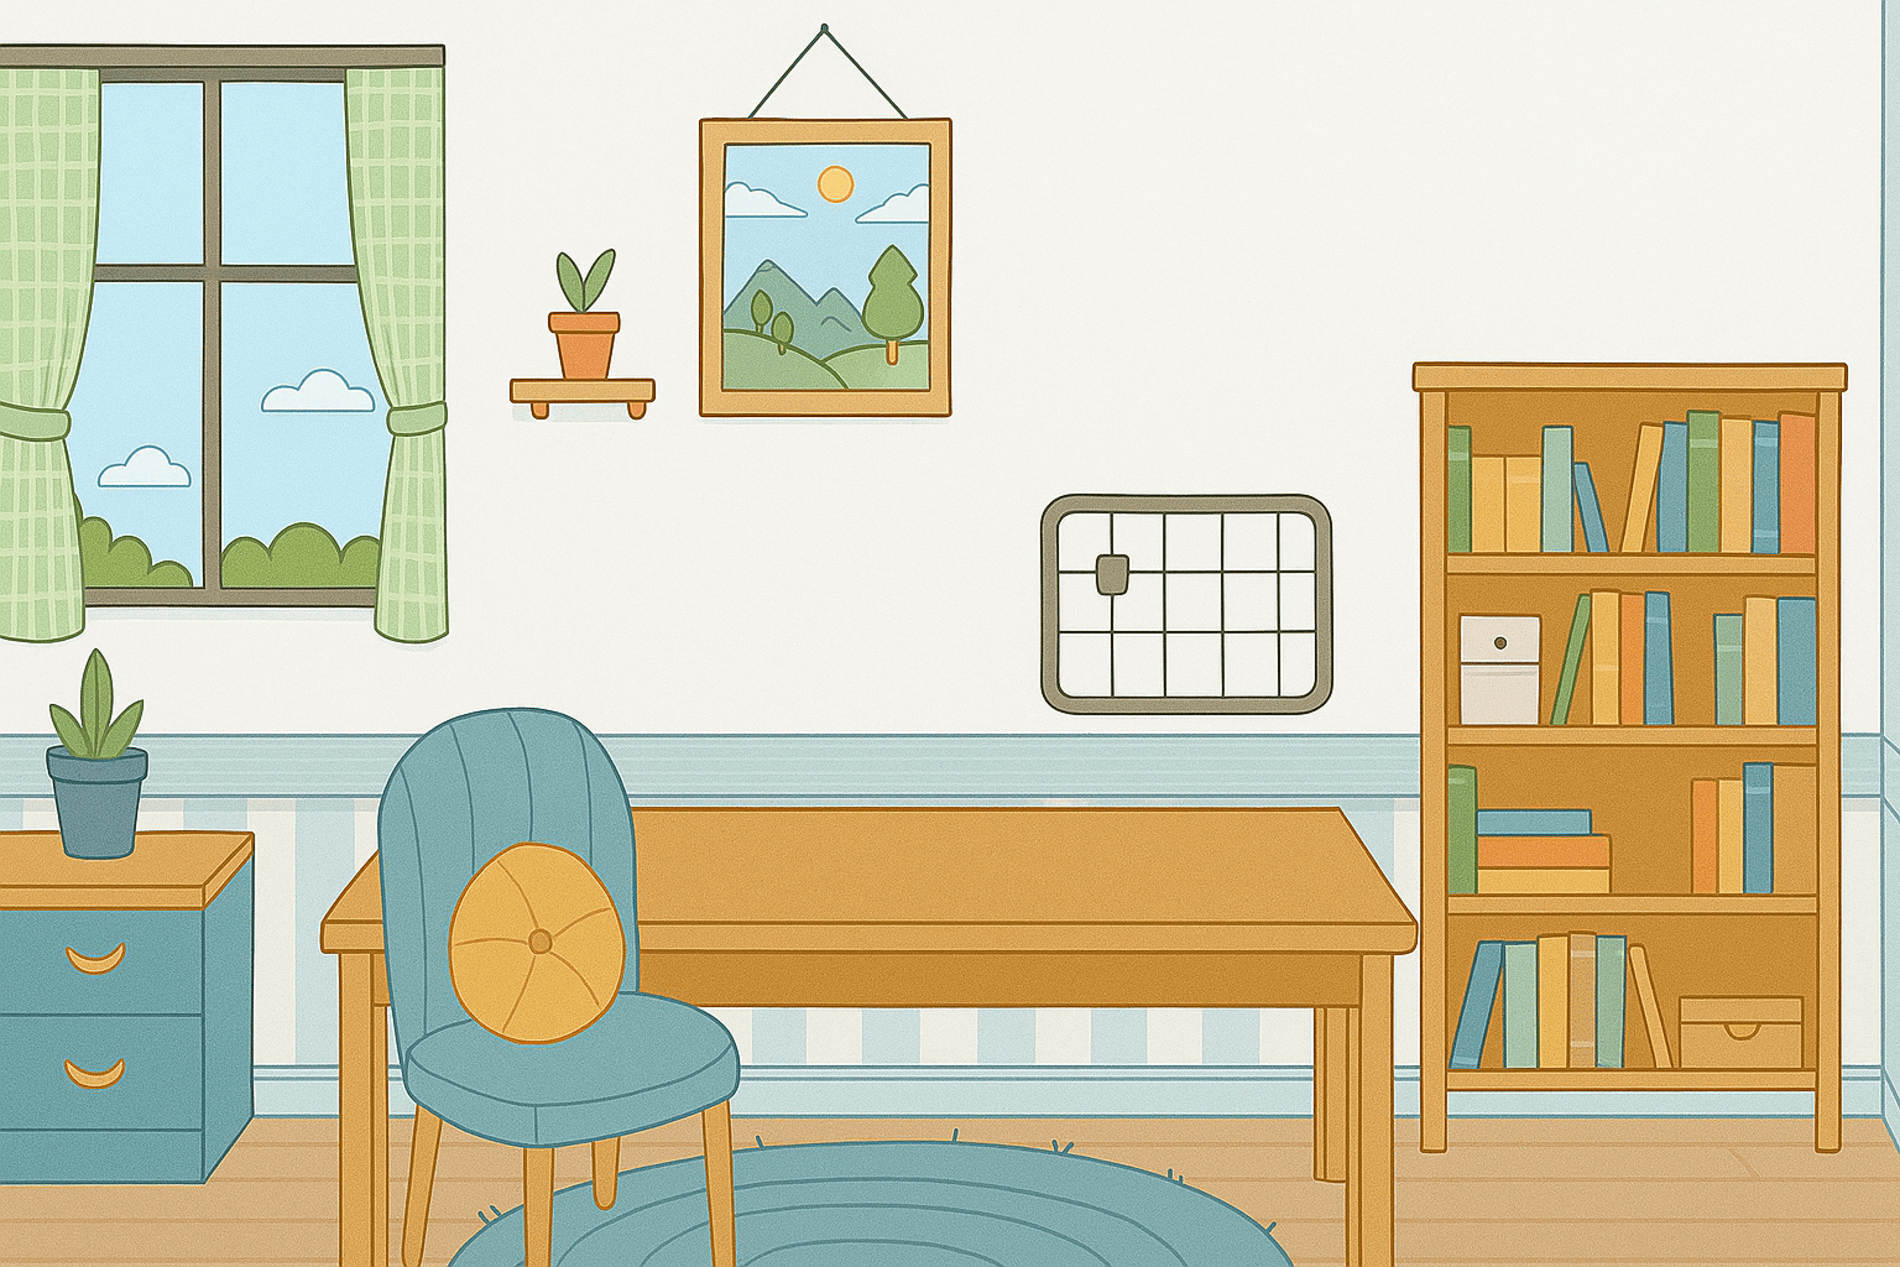
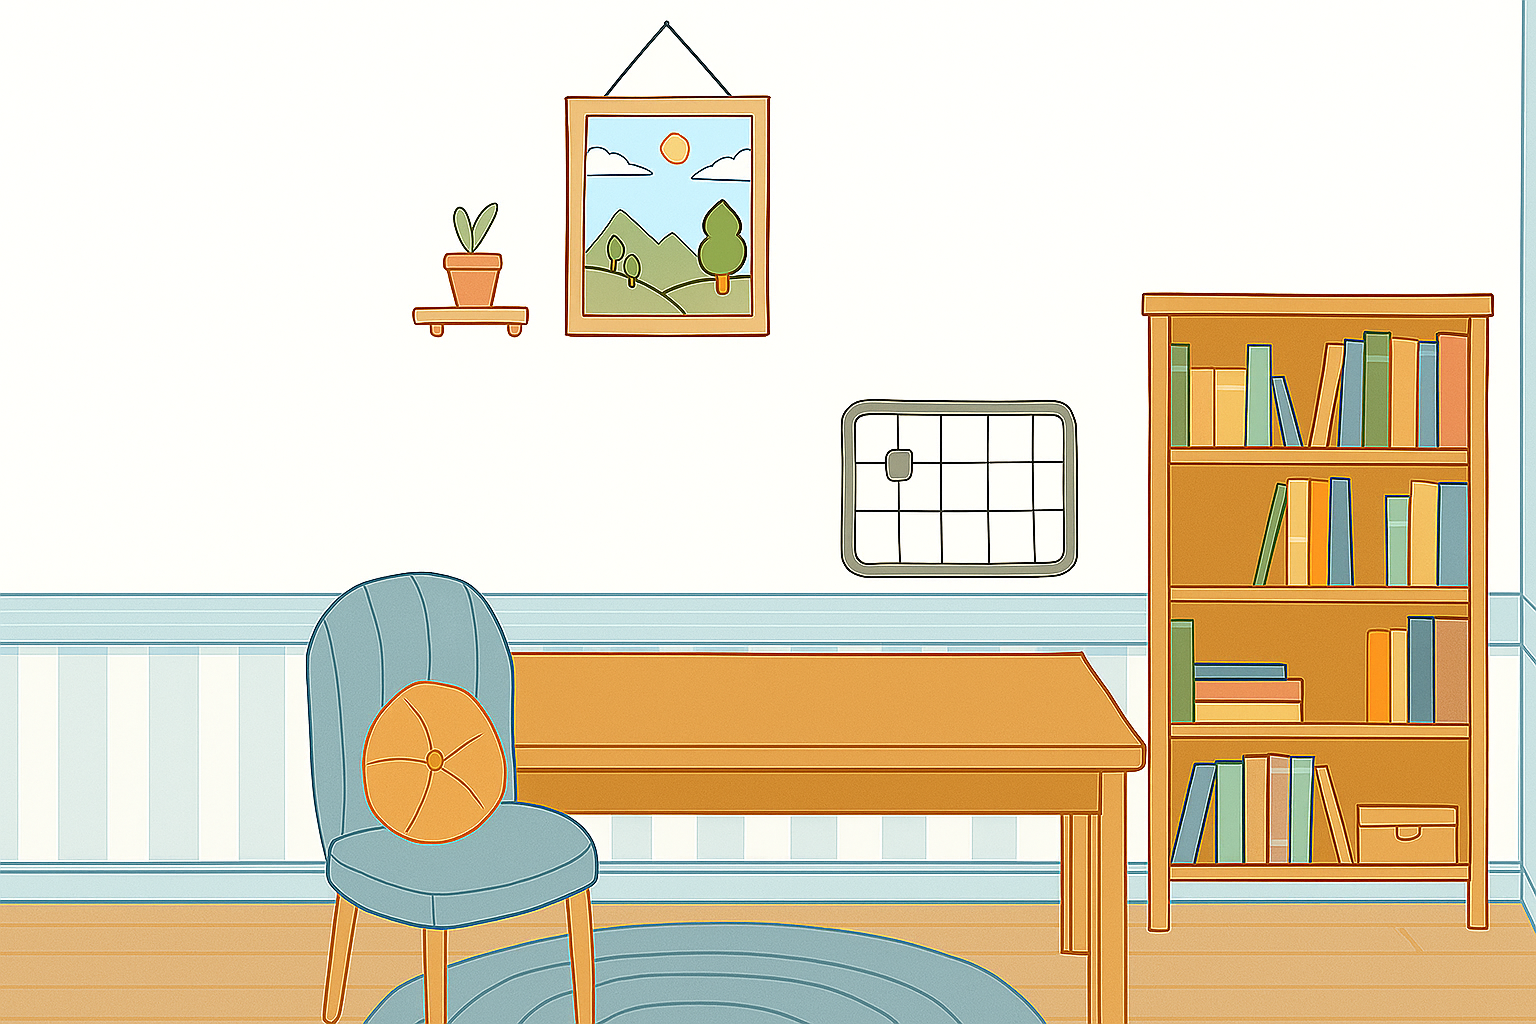
Move window.gif further left on hover

Changed region(s): [[0.0, 0.0312, 1.0, 1.0], [0.9688, 0.0, 1.0, 0.0938], [0.625, 0.9375, 0.6562, 0.9688]]

diff --git a/landingpage.html b/landingpage.html
@@ -230,12 +230,21 @@
         
         .overlay-window {
             position: absolute;
-            left: -16%; /* Moved further left from -8% */
-            top: -23%; /* Moved further up from -5% */
+            left: -20%; /* Moved a little to the right from -25% */
+            top: -23%; /* Maintaining the vertical position */
             z-index: 2;
-            width: 850px; /* Increased from 700px */
+            width: 850px; /* Maintaining the width */
             height: auto;
-            transition: opacity 0.4s ease;
+            transform-origin: center center;
+        }
+        
+        /* Sleeping cat styles */
+        .sleeping-cat {
+            filter: drop-shadow(0 4px 8px rgba(0,0,0,0.2));
+            transition: transform 0.5s ease;
+        }
+        .sleeping-cat:hover {
+            transform: scale(1.05);
         }
         
         /* Interactive elements */
@@ -412,8 +421,12 @@
     
     <div class="bg-container">
     <img src="assets/main.png" alt="Main Background" class="main-bg">
-        <!-- Window on left side -->
+        <!-- Window repositioned to the left -->
     <img src="assets/window.png" alt="Window" id="room-window" class="overlay-window">
+        <!-- Cat sleeping GIF on left side -->
+    <div class="cat-wrapper" style="position:absolute; left:9%; top:82%; transform:translate(-50%,-50%); z-index:12;">
+        <img src="assets/Cat-Sleeping-Loop-Video-Creati-unscreen.gif" alt="Sleeping Cat" class="sleeping-cat" style="width:650px; height:auto; object-fit:contain;">
+    </div>
         <!-- PC element removed -->
 
             <!-- Lamp (click to switch background color) -->
@@ -430,11 +443,11 @@
         </div>
         
         <!-- PC image to the right of author image - clickable, links to blog.html -->
-        <div class="pc-wrapper" style="position:absolute; left:46%; top:58%; transform:translate(-50%,-50%); z-index:14;">
-            <a href="blog.html" id="pc-link" class="clickable-no-hover" style="display:inline-block; width:280px; height:220px; cursor:none; position:relative;">
-                <img id="pc-image" src="assets/pc.png" alt="PC" class="pc-static-image" style="width:280px; height:220px; object-fit:contain; opacity:1;">
+        <div class="pc-wrapper" style="position:absolute; left:50%; top:66%; transform:translate(-50%,-50%); z-index:14;">
+            <a href="blog.html" id="pc-link" class="clickable-no-hover" style="display:inline-block; width:350px; height:275px; cursor:none; position:relative;">
+                <img id="pc-image" src="assets/pc.png" alt="PC" class="pc-static-image" style="width:250px; height:195px; object-fit:contain; opacity:1;">
             </a>
-            <img src="assets/articlesbub.png" alt="Articles" class="pc-bubble" style="position:absolute; left:130px; top:-80px; width:180px; height:auto; opacity:0; pointer-events:none; transform: translateY(6px) scale(.95); transition: opacity .25s ease, transform .25s ease; z-index:25;">
+            <img src="assets/articlesbub.png" alt="Articles" class="pc-bubble" style="position:absolute; left:160px; top:-80px; width:180px; height:auto; opacity:0; pointer-events:none; transform: translateY(6px) scale(.95); transition: opacity .25s ease, transform .25s ease; z-index:25;">
         </div>
 
        
@@ -460,7 +473,7 @@
     <script>
         // Preload cursor images & report if missing
         (function(){
-            const imgs = ['assets/cursor.png','assets/onclick.png','assets/nightwindow.png','assets/authors.png','assets/meetteam.png','assets/articlesbub.png','assets/logo.gif'];
+            const imgs = ['assets/cursor.png','assets/onclick.png','assets/window.png','assets/window.gif','assets/authors.png','assets/meetteam.png','assets/articlesbub.png','assets/logo.gif','assets/Cat-Sleeping-Loop-Video-Creati-unscreen.gif'];
             imgs.forEach(src=>{const i=new Image(); i.onload=()=>console.log('Loaded asset',src); i.onerror=()=>console.warn('Failed to load asset',src); i.src=src;});
         })();
         // Add this script to verify the elements are there and set up event listeners
@@ -477,30 +490,47 @@
             // Lamp click -> change background color to dark purple (toggle)
             const lamp = document.getElementById('lamp');
             if (lamp) {
-                const winImg = document.getElementById('room-window');
                 lamp.addEventListener('click', function(e){
                     e.preventDefault();
                     const dark = document.body.classList.toggle('dark-purple-bg');
-                    if (winImg) {
-                        // Fade swap
-                        winImg.style.opacity = 0;
-                        setTimeout(()=>{
-                            winImg.src = dark ? 'assets/nightwindow.png' : 'assets/window.png';
-                            winImg.onload = () => { winImg.style.opacity = 1; };
-                        }, 180);
-                    }
                 });
             }
 
-            // Window code (hover effect removed)
+            // Window animation on hover - direct swap like author/team
             (function(){
                 const winImg = document.getElementById('room-window');
                 if(!winImg) return;
-                // Just keeping the references for dark mode toggle
-                let baseSrc = 'assets/window.png';
-                let darkSrc = 'assets/nightwindow.png';
-                // No hover event listeners needed anymore
-                // When dark mode toggles we already handle src in lamp click
+                
+                // Original size and position values
+                const original = {
+                    width: '850px',
+                    height: 'auto',
+                    left: '-20%'
+                };
+                
+                // Larger size and shifted position for GIF
+                const changed = {
+                    width: '1100px', // Increased from 1000px
+                    height: 'auto',
+                    left: '-30%' // Moved even further to the left (from -25%)
+                };
+                
+                // Preload the GIF for performance
+                const windowGif = new Image();
+                windowGif.src = 'assets/window.gif';
+                
+                // Direct image swap on hover with size and position changes (no transition)
+                winImg.addEventListener('mouseenter', function() {
+                    winImg.src = 'assets/window.gif';
+                    winImg.style.width = changed.width;
+                    winImg.style.left = changed.left; // Move left
+                });
+                
+                winImg.addEventListener('mouseleave', function() {
+                    winImg.src = 'assets/window.png';
+                    winImg.style.width = original.width;
+                    winImg.style.left = original.left; // Reset position
+                });
             })();
             
             const bookLink = document.getElementById('book-link');
@@ -755,16 +785,17 @@
             const pcBubble = document.querySelector('.pc-bubble');
             
             if (pcImage) {
-                // Static image dimensions - fixed size
-                const staticWidth = '280px';
-                const staticHeight = '220px';
+                // Static image dimensions - even smaller size
+                const staticWidth = '250px';
+                const staticHeight = '195px';
                 
                 // Paths to images
                 const staticSrc = 'assets/pc.png';
                 const animatedSrc = 'assets/pc.gif';
                 
-                // GIF size - same as static now for consistency
-                const gifWidth = '280px';
+                // GIF size - larger than static
+                const gifWidth = '350px';
+                const gifHeight = '275px';
                 
                 // Preload the GIF for smoother transition
                 const preloadGif = new Image();
@@ -772,14 +803,14 @@
                 
                 // When mouse enters the PC image
                 pcLink.addEventListener('mouseenter', function() {
-                    // Change to GIF with exact same dimensions as static
+                    // Change to GIF with larger dimensions
                     pcImage.src = animatedSrc;
-                    pcImage.style.width = staticWidth;
-                    pcImage.style.height = staticHeight;
+                    pcImage.style.width = gifWidth;
+                    pcImage.style.height = gifHeight;
                     pcImage.style.objectFit = 'contain';
                     
-                    // Remove any transform that might affect size perception
-                    pcImage.style.transform = '';
+                    // Make a very subtle adjustment upward with same left position
+                    pcImage.style.transform = 'translateY(-40px) translateX(-45px)';
                     
                     // Show the articles bubble
                     if (pcBubble) {
@@ -790,14 +821,14 @@
                 
                 // When mouse leaves
                 pcLink.addEventListener('mouseleave', function() {
-                    // Change back to static PNG with exact same dimensions
+                    // Change back to static PNG with smaller dimensions
                     pcImage.src = staticSrc;
                     pcImage.style.width = staticWidth;
                     pcImage.style.height = staticHeight;
                     pcImage.style.objectFit = 'contain';
                     
-                    // Reset position adjustment
-                    pcImage.style.transform = '';
+                    // Reset position adjustment - ensuring no vertical shift
+                    pcImage.style.transform = 'translateY(0)';
                     
                     // Hide the articles bubble
                     if (pcBubble) {

diff --git a/bg.py b/bg.py
@@ -1,0 +1,25 @@
+import cv2
+import os
+from rembg import remove
+from PIL import Image
+import moviepy.video.io.ImageSequenceClip as ImageSequenceClip
+
+def remove_bg_video(video_path):
+    cap = cv2.VideoCapture(video_path)
+    frames = []
+    while True:
+        ret, frame = cap.read()
+        if not ret:
+            break
+        img = Image.fromarray(cv2.cvtColor(frame, cv2.COLOR_BGR2RGB))
+        img_no_bg = remove(img)
+        frames.append(img_no_bg)
+    cap.release()
+
+    # Save output video
+    clip = ImageSequenceClip.ImageSequenceClip([f for f in frames], fps=30)
+    output_path = os.path.splitext(video_path)[0] + "_nobg.mp4"
+    clip.write_videofile(output_path, codec='libx264')
+    print(f"Saved: {output_path}")
+
+remove_bg_video("C:\\Users\\admin\\OneDrive\\Desktop\\Girlsin.tech-2\\assets\\table.mp4")